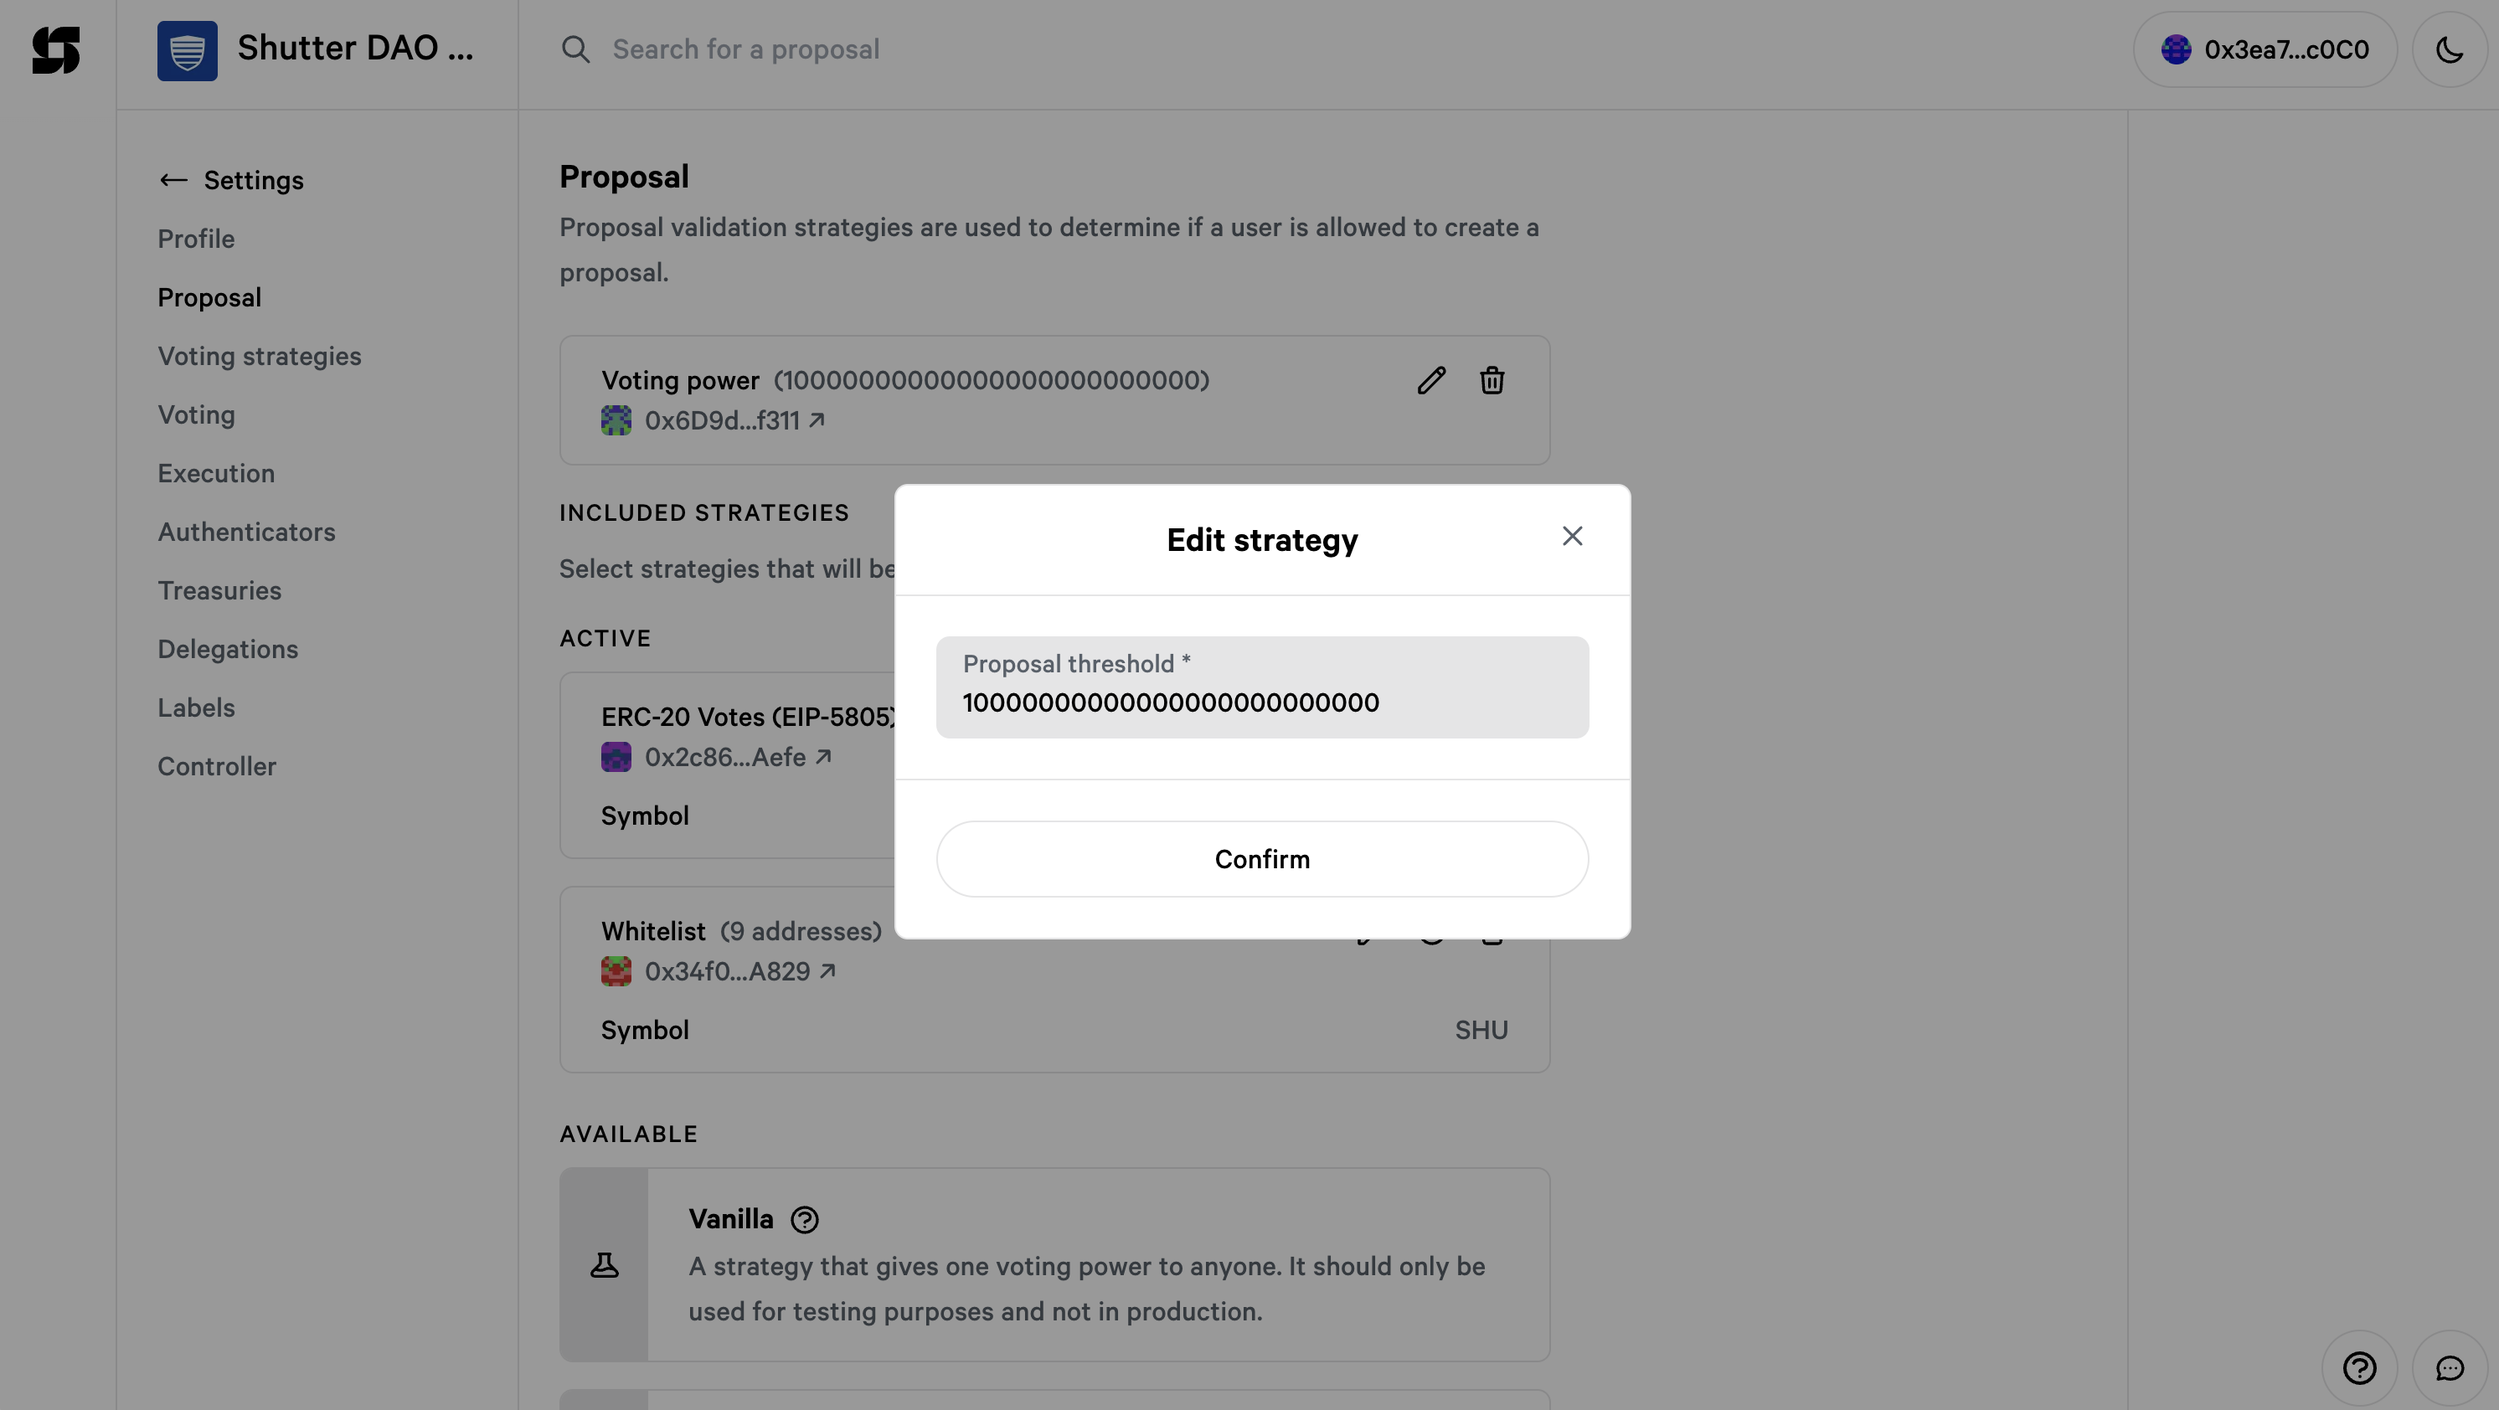
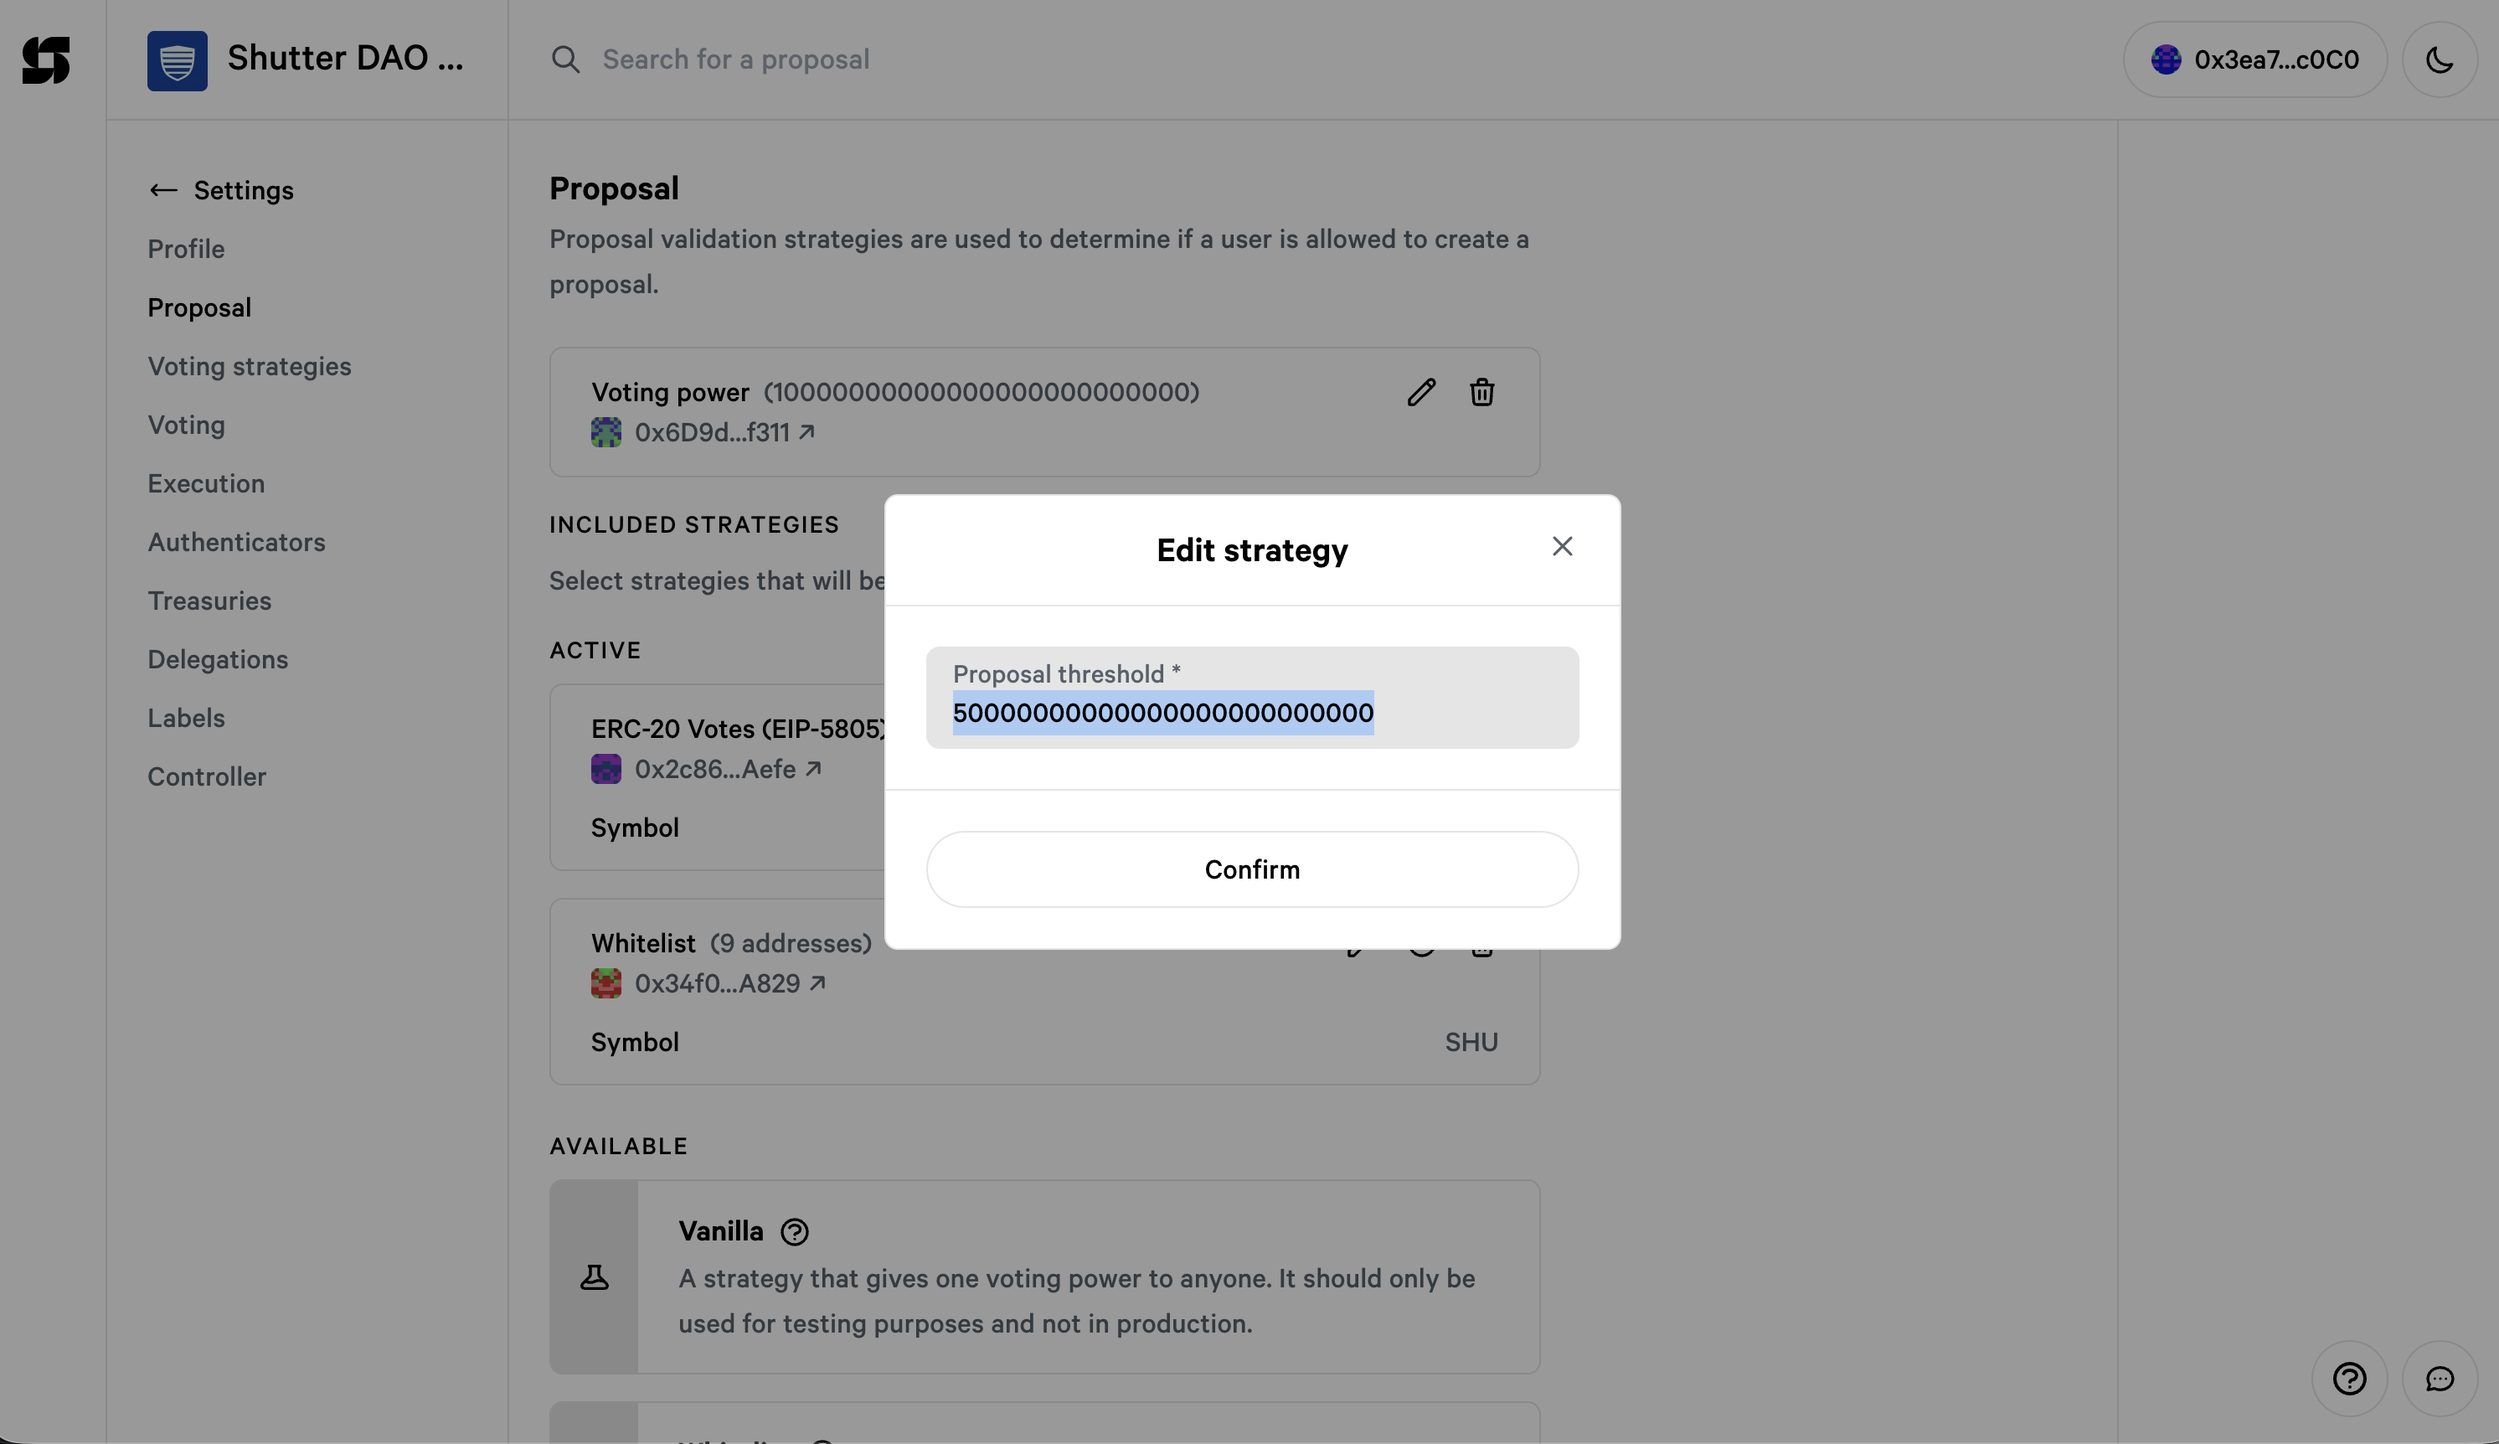
chore: update threshold guide screenshots with the new values

diff --git a/docs/SECURITY_COUNCIL_THRESHOLD_50M.md b/docs/SECURITY_COUNCIL_THRESHOLD_50M.md
@@ -26,12 +26,18 @@ We tested this exact change on a copy of the live space. Everything worked as ex
 
    ![Proposal settings](images/threshold-step1.png)
 
-4. Click the pencil on **Voting power**. Set the threshold to
-   `50000000000000000000000000` and click **Confirm**.
+4. Click the pencil on **Voting power**. In **Proposal threshold**, replace the value
+   with the number below, then click **Confirm**.
+
+   ```
+   50000000000000000000000000
+   ```
 
    ![Edit threshold](images/threshold-step2.png)
 
-5. Click the pencil on **Whitelist (9 addresses)**. Replace the whole field with the text
+5. Click the pencil on **Whitelist (9 addresses)**. Each line is `address:amount`. Change
+   the amount on every line to `50000000000000000000000000`, as shown for the first two
+   lines in the picture. The easiest way is to replace the whole field with the text
    below. Leave **Symbol** as `SHU`, then click **Confirm**.
 
    ![Edit whitelist](images/threshold-step3.png)
